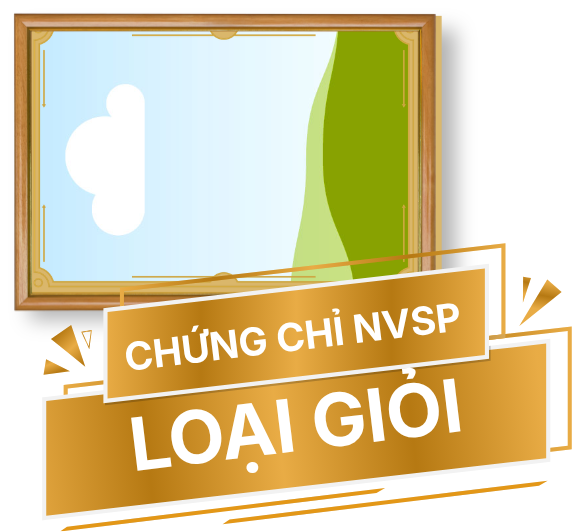
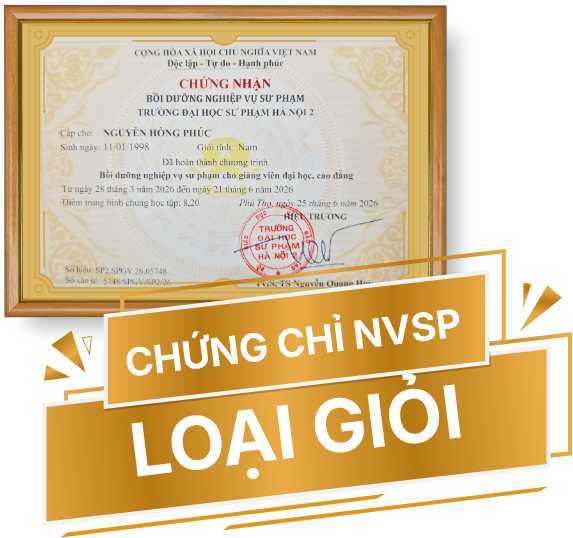
Feature: Mass Course page

diff --git a/src/app/(landing)/khoa-hoc/khoa-dai-tra/CourseCard.tsx b/src/app/(landing)/khoa-hoc/khoa-dai-tra/CourseCard.tsx
@@ -1,0 +1,78 @@
+'use client';
+import { Button, Modal } from 'antd';
+import Image from 'next/image';
+import { useState } from 'react';
+import RegisterForm from '../../components/register-form';
+import { formatDate } from '@/lib/dayjs';
+
+interface CourseCardProps {
+  data: {
+    image: string;
+    name: string;
+    target: string;
+    schedule: string;
+    startDate: Date;
+    maxStudents: number;
+    currentStudents: number;
+  };
+}
+
+const CourseCard = ({ data }: CourseCardProps) => {
+  const [open, setOpen] = useState(false);
+
+  return (
+    <div className="rounded-2xl bg-white p-4 shadow-xl">
+      <div className="flex gap-4 md:gap-6">
+        <div>
+          <Image
+            src={data.image}
+            alt={data.name}
+            width={200}
+            height={200}
+            className="aspect-square w-20 rounded-2xl md:w-30 lg:w-50"
+          />
+        </div>
+        <ul className="flex-1 text-base md:text-lg">
+          <li>
+            Đối tượng: <span className="font-semibold">{data.target}</span>
+          </li>
+          <li>Lịch học: {data.schedule}</li>
+          <li>Lịch khai giảng: {formatDate(data.startDate)}</li>
+          <li>Số lượng: Tối đa {data.maxStudents} người</li>
+          <li>
+            Tình trạng: {data.currentStudents}/{data.maxStudents}
+          </li>
+        </ul>
+        <div className="hidden self-end sm:block">
+          <Button type="primary" size="large" onClick={() => setOpen(true)} disabled>
+            Đăng ký
+          </Button>
+        </div>
+      </div>
+      <div className="mt-2 sm:hidden">
+        <Button type="primary" size="large" block onClick={() => setOpen(true)} disabled>
+          Đăng ký
+        </Button>
+      </div>
+      <Modal
+        open={open}
+        title={<div className="text-center">Vui lòng nhập thông tin</div>}
+        onCancel={() => setOpen(false)}
+        footer={null}
+        centered
+        destroyOnHidden
+      >
+        <p className="mx-auto mb-8 text-center">Giáo viên sẽ liên hệ sắp xếp lớp ngay</p>
+        <RegisterForm onAfterFinish={() => setOpen(false)}>
+          <div className="text-center">
+            <Button variant="solid" htmlType="submit" type="primary" className="mt-4">
+              Đăng ký khóa học
+            </Button>
+          </div>
+        </RegisterForm>
+      </Modal>
+    </div>
+  );
+};
+
+export default CourseCard;

diff --git a/src/app/(landing)/khoa-hoc/khoa-dai-tra/page.tsx b/src/app/(landing)/khoa-hoc/khoa-dai-tra/page.tsx
@@ -1,0 +1,70 @@
+import { Container } from '@/components/ui';
+import { Metadata } from 'next';
+import TextTicker from '../../components/text-ticker';
+import CourseCard from './CourseCard';
+
+export const metadata: Metadata = {
+  title: 'Khóa đại trà online',
+  description:
+    'Khóa học tiếng Trung online dành cho người mới bắt đầu, giúp học viên nắm vững kiến thức cơ bản và phát triển kỹ năng giao tiếp hiệu quả.',
+};
+
+const COURSE_DATA = [
+  {
+    image: '/img/courses/introductory.png',
+    name: 'Khóa học tiếng Trung cơ bản',
+    target: 'Dành cho người mới',
+    schedule: '18h - 19h30 | Thứ 2, 4, 6',
+    startDate: new Date(),
+    maxStudents: 10,
+    currentStudents: 6,
+  },
+  {
+    image: '/img/courses/hsk3.png',
+    name: 'Khóa học HSK 3',
+    target: 'Học viên đã hoàn thành trình độ khóa HSK 2',
+    schedule: '18h - 19h30 | Thứ 2, 4, 6',
+    startDate: new Date(),
+    maxStudents: 10,
+    currentStudents: 6,
+  },
+  {
+    image: '/img/courses/hsk4.png',
+    name: 'Khóa học HSK 4',
+    target: 'Học viên đã hoàn thành trình độ khóa HSK 3',
+    schedule: '18h - 19h30 | Thứ 2, 4, 6',
+    startDate: new Date(),
+    maxStudents: 10,
+    currentStudents: 6,
+  },
+  {
+    image: '/img/courses/hsk5.png',
+    name: 'Khóa học HSK 5',
+    target: 'Học viên đã hoàn thành trình độ khóa HSK 4',
+    schedule: '18h - 19h30 | Thứ 2, 4, 6',
+    startDate: new Date(),
+    maxStudents: 10,
+    currentStudents: 6,
+  },
+];
+
+const MassCourse = () => {
+  return (
+    <div>
+      <TextTicker />
+      <h1 className="sr-only">Khóa đại trà online</h1>
+      <Container className="py-8">
+        <h2 className="text-primary mb-2 rounded-2xl bg-linear-90 from-[#e9ebed] to-transparent px-6 py-4 text-2xl font-bold lg:text-3xl">
+          Đang vận hành
+        </h2>
+        <div className="flex flex-col gap-4">
+          {COURSE_DATA.map((course, index) => (
+            <CourseCard key={index} data={course} />
+          ))}
+        </div>
+      </Container>
+    </div>
+  );
+};
+
+export default MassCourse;

diff --git a/src/app/(landing)/components/layouts/navigation.tsx b/src/app/(landing)/components/layouts/navigation.tsx
@@ -1,4 +1,5 @@
 'use client';
+import { PATHS } from '@/config/routes';
 import { MenuOutlined } from '@ant-design/icons';
 import { Button, Drawer, Flex, Grid, Menu } from 'antd';
 import { ItemType, MenuItemType } from 'antd/es/menu/interface';
@@ -9,17 +10,17 @@ import { useState } from 'react';
 
 const menuItems: ItemType<MenuItemType>[] = [
   {
-    key: '/',
+    key: PATHS.HOME,
     label: (
-      <Link href="/" className="font-semibold">
+      <Link href={PATHS.HOME} className="font-semibold">
         Trang chủ
       </Link>
     ),
   },
   {
-    key: '/gioi-thieu',
+    key: PATHS.INTRODUCTION,
     label: (
-      <Link href="/gioi-thieu" className="font-semibold">
+      <Link href={PATHS.INTRODUCTION} className="font-semibold">
         Giới thiệu
       </Link>
     ),
@@ -29,32 +30,32 @@ const menuItems: ItemType<MenuItemType>[] = [
     label: <div className="font-semibold">Khóa học</div>,
     children: [
       {
-        label: <Link href="#">Khóa đại trà online</Link>,
-        key: '/khoa-hoc/1',
+        label: <Link href={PATHS.COURSES.MASS_COURSE}>Khóa đại trà online</Link>,
+        key: PATHS.COURSES.MASS_COURSE,
         title: 'Khóa đại trà online',
       },
       {
-        label: 'Khóa VIP 1 kèm 1',
-        key: '/khoa-hoc/2',
+        label: <Link href={PATHS.COURSES.VIP_COURSE}>Khóa VIP 1 kèm 1</Link>,
+        key: PATHS.COURSES.VIP_COURSE,
       },
     ],
   },
   {
-    key: '/danh-gia',
+    key: PATHS.REVIEWS,
     label: (
-      <Link href="/danh-gia" className="font-semibold">
+      <Link href={PATHS.REVIEWS} className="font-semibold">
         Đánh giá
       </Link>
     ),
   },
-  {
-    key: '/tu-hoc',
-    label: (
-      <Link href="/tu-hoc" className="font-semibold">
-        Tự học
-      </Link>
-    ),
-  },
+  // {
+  //   key: '/tu-hoc',
+  //   label: (
+  //     <Link href="/tu-hoc" className="font-semibold">
+  //       Tự học
+  //     </Link>
+  //   ),
+  // },
 ];
 
 const Navigation = () => {

diff --git a/src/lib/dayjs.ts b/src/lib/dayjs.ts
@@ -1,0 +1,25 @@
+import dayjs from 'dayjs';
+import 'dayjs/locale/vi';
+import relativeTime from 'dayjs/plugin/relativeTime';
+import localizedFormat from 'dayjs/plugin/localizedFormat';
+
+dayjs.extend(relativeTime);
+dayjs.extend(localizedFormat);
+dayjs.locale('vi');
+
+export const formatDate = (
+  date: string | number | Date | dayjs.Dayjs | null | undefined,
+  format: string = 'DD/MM/YYYY',
+  hasTime: boolean = false,
+  hasSeconds: boolean = false,
+) => {
+  if (hasTime) {
+    return hasSeconds
+      ? dayjs(date).format(`${format} HH:mm:ss`)
+      : dayjs(date).format(`${format} HH:mm`);
+  }
+
+  return dayjs(date).format(format);
+};
+
+export default dayjs;

diff --git a/src/config/routes.ts b/src/config/routes.ts
@@ -5,3 +5,14 @@ export const LINKS = {
   MESSENGER: 'https://m.me/tiengtrungafu',
   ZALO: 'https://zalo.me/84853599365',
 };
+
+export const PATHS = {
+  HOME: '/',
+  INTRODUCTION: '/gioi-thieu',
+  COURSES: {
+    MASS_COURSE: '/khoa-hoc/khoa-dai-tra',
+    VIP_COURSE: '/khoa-hoc/khoa-vip',
+  },
+  REVIEWS: '/danh-gia',
+  REGISTRATION: '/dang-ky-hoc',
+};

diff --git a/src/app/(landing)/components/text-ticker.tsx b/src/app/(landing)/components/text-ticker.tsx
@@ -8,7 +8,7 @@ interface TextTickerProps {
 
 const TextTicker = ({
   texts = [
-    '🎯 “Đang tuyển sinh lớp online tháng 7“',
+    '🎯 “Đang tuyển sinh lớp online tháng 8“',
     '🎉 “Quà Tặng Hấp Dẫn - Đăng Ký Ngay”',
     '💥 “Hỗ Trợ Học Thử Miễn Phí - Test Đầu Vào Miễn Phí”',
   ],
